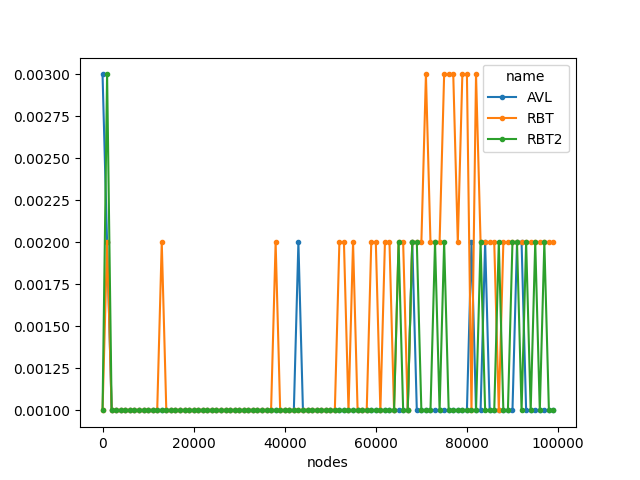
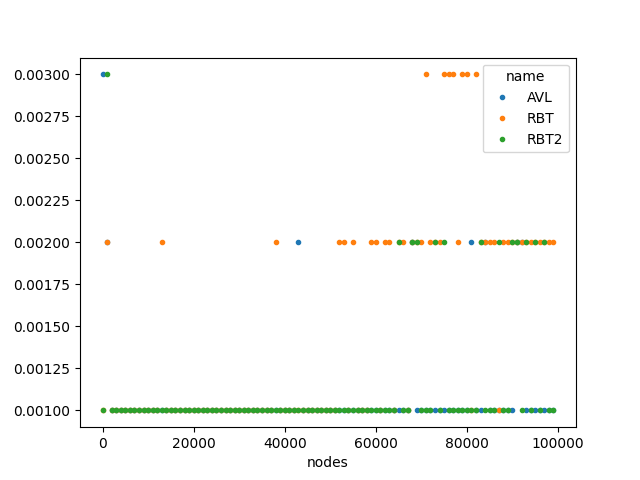
Add more graphs for the benchmarking

Changed region(s): [[0.4062, 0.1562, 0.875, 0.875], [0.1562, 0.1562, 0.1875, 0.8438], [0.2188, 0.5, 0.2812, 0.8438]]

diff --git a/benchmark/plot/plot.py b/benchmark/plot/plot.py
@@ -1,39 +1,55 @@
 import pandas as pd
 import matplotlib.pyplot as plt
 
+if __name__ == "__main__":
+    insert_csv = pd.read_csv("insert-1-100000.csv", header=None)
+    search_csv = pd.read_csv("search-1-100000.csv", header=None)
 
-insert_csv = pd.read_csv("insert-1-100000.csv", header=None)
-search_csv = pd.read_csv("search-1-100000.csv", header=None)
+    insert_csv.columns = ["name", "nodes", "avg_case", "worst_case"]
+    search_csv.columns = ["name", "nodes", "avg_case", "worst_case"]
 
-insert_csv.columns = ["name", "nodes", "avg_case", "worst_case"]
-search_csv.columns = ["name", "nodes", "avg_case", "worst_case"]
+    # Average time
 
-# Average time
+    insert_avg = insert_csv.pivot(index="nodes", columns="name", values="avg_case")
+    fig = insert_avg.plot(style='.').get_figure()
+    fig.savefig("insert_avg.png")
 
-insert_avg = insert_csv.pivot(index="nodes", columns="name", values="avg_case")
-fig = insert_avg.plot(style='.-').get_figure()
-fig.savefig("insert_avg.png")
+    search_avg = search_csv.pivot(index="nodes", columns="name", values="avg_case")
+    fig = search_avg.plot(style='.').get_figure()
+    fig.savefig("search_avg.png")
 
-search_avg = search_csv.pivot(index="nodes", columns="name", values="avg_case")
-fig = search_avg.plot(style='.-').get_figure()
-fig.savefig("search_avg.png")
+    # Worst time
 
-# Worst time
+    insert_worst = insert_csv.pivot(index="nodes", columns="name", values="worst_case")
+    fig = insert_worst.plot(style='.').get_figure()
+    fig.savefig("insert_worst.png")
 
-insert_worst = insert_csv.pivot(index="nodes", columns="name", values="worst_case")
-fig = insert_worst.plot(style='.-').get_figure()
-fig.savefig("insert_worst.png")
+    search_worst = search_csv.pivot(index="nodes", columns="name", values="worst_case")
+    fig = search_worst.plot(style='.').get_figure()
+    fig.savefig("search_worst.png")
 
-search_worst = search_csv.pivot(index="nodes", columns="name", values="worst_case")
-fig = search_worst.plot(style='.-').get_figure()
-fig.savefig("search_worst.png")
+    # Worst time (log)
 
-# Exclude the BST from search graph
+    fig = insert_worst.plot(style='.', logy=True).get_figure()
+    fig.savefig("insert_worst_log.png")
 
-search_avg_filtered = search_avg.drop(columns="BST")
-fig = search_avg_filtered.plot(style='.-').get_figure()
-fig.savefig("search_avg_filtered.png")
+    fig = search_worst.plot(style='.', logy=True).get_figure()
+    fig.savefig("search_worst_log.png")
 
-search_worst_filtered = search_worst.drop(columns="BST")
-fig = search_worst_filtered.plot(style='.-').get_figure()
-fig.savefig("search_worst_filtered.png")
+    # Exclude the BST from search graph
+
+    search_avg_filtered = search_avg.drop(columns="BST")
+    fig = search_avg_filtered.plot(style='.').get_figure()
+    fig.savefig("search_avg_filtered.png")
+
+    search_worst_filtered = search_worst.drop(columns="BST")
+    fig = search_worst_filtered.plot(style='.').get_figure()
+    fig.savefig("search_worst_filtered.png")
+
+    # Worst time (log) (Excluding BST)
+
+    fig = search_worst_filtered.plot(style='.', logy=True).get_figure()
+    fig.savefig("search_worst_log_filtered.png")
+
+    fig = search_avg_filtered.plot(style='.', logy=True).get_figure()
+    fig.savefig("search_avg_log_filtered.png")
